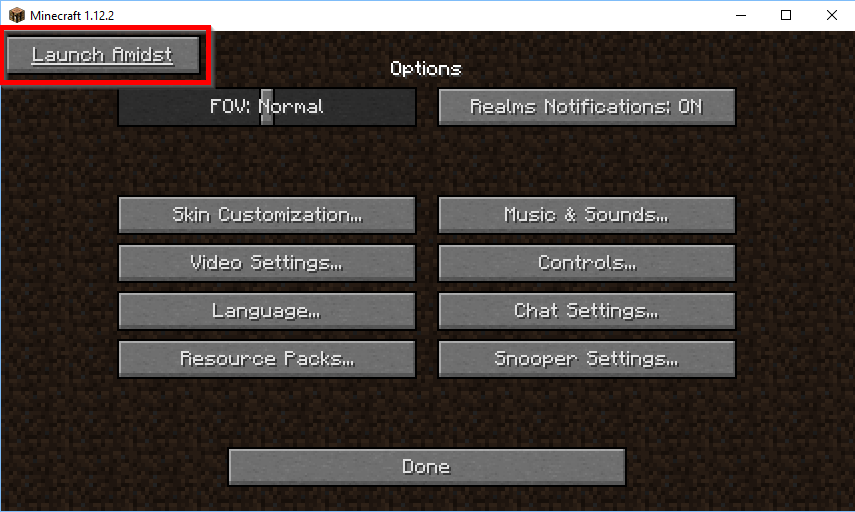
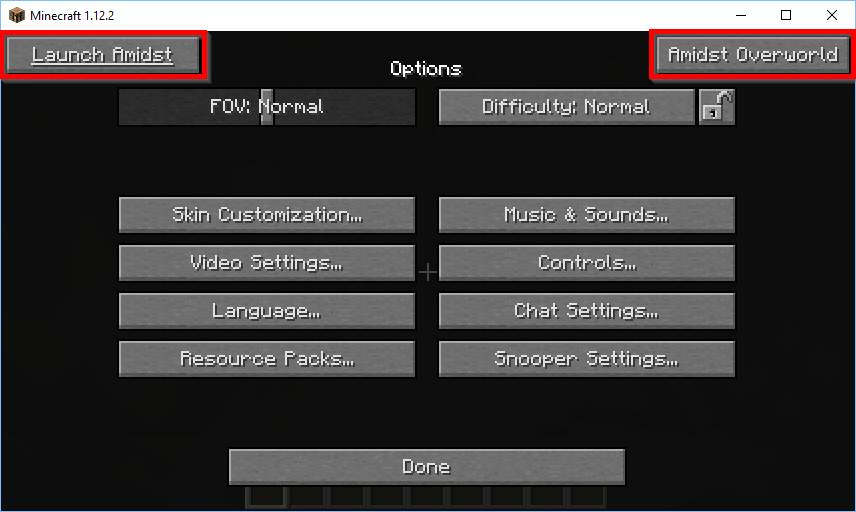
Add some basic support for mods that tie their generation to a dimension. See #3

diff --git a/src/main/java/net/lessqq/amidstforge/UIEventHandler.java b/src/main/java/net/lessqq/amidstforge/UIEventHandler.java
@@ -11,12 +11,17 @@ import amidst.AmidstSettings;
 import amidst.Application;
 import amidst.PerApplicationInjector;
 import amidst.ResourceLoader;
+import amidst.mojangapi.minecraftinterface.MinecraftInterface;
 import net.minecraft.client.gui.GuiButton;
 import net.minecraft.client.gui.GuiOptions;
 import net.minecraft.client.gui.GuiScreen;
 import net.minecraft.client.resources.I18n;
+import net.minecraft.world.WorldServer;
 import net.minecraftforge.client.event.GuiScreenEvent;
 import net.minecraftforge.client.event.GuiScreenEvent.InitGuiEvent;
+import net.minecraftforge.common.DimensionManager;
+import net.minecraftforge.event.world.WorldEvent.Load;
+import net.minecraftforge.event.world.WorldEvent.Unload;
 import net.minecraftforge.fml.common.Mod.EventBusSubscriber;
 import net.minecraftforge.fml.common.eventhandler.SubscribeEvent;
 
@@ -24,7 +29,9 @@ import net.minecraftforge.fml.common.eventhandler.SubscribeEvent;
 public class UIEventHandler {
 
   private GuiButton amidstButton;
+  private GuiButton overworldButton;
   private Application application;
+  private boolean serverRunning = false;
 
   @SubscribeEvent
   public void initGui(InitGuiEvent.Post evt) {
@@ -35,18 +42,42 @@ public class UIEventHandler {
         maxy = b.y > maxy ? b.y : maxy;
       }
       amidstButton = new GuiButton(Integer.MIN_VALUE, 2, 2, 98, 20, I18n.format("amidstforge.ui.button.label"));
+      overworldButton = new GuiButton(Integer.MIN_VALUE, gui.width - 100 , 2, 98, 20,
+          I18n.format("amidstforge.ui.overworldbutton.label"));
+      overworldButton.enabled = serverRunning;
       evt.getButtonList().add(amidstButton);
+      evt.getButtonList().add(overworldButton);
     }
+  }
+
+  @SubscribeEvent
+  public void onWorldLoad(Load evt) {
+    WorldServer overworld = DimensionManager.getWorld(0);
+    if (overworld != null && overworld == evt.getWorld())
+      serverRunning = true;
+    if (overworldButton != null)
+      overworldButton.enabled = serverRunning;
+  }
+
+  @SubscribeEvent
+  public void onWorldUnload(Unload evt) {
+    WorldServer overworld = DimensionManager.getWorld(0);
+    if (overworld == null || overworld == evt.getWorld())
+      serverRunning = false;
+    if (overworldButton != null)
+      overworldButton.enabled = serverRunning;
   }
 
   @SubscribeEvent
   public void postEvent(GuiScreenEvent.ActionPerformedEvent.Post evt) {
     if (evt.getGui() instanceof GuiOptions && evt.getButton() == amidstButton) {
-      startAmidst();
+      startAmidst(new IntegratedMinecraftInterface());
+    } else if (evt.getGui() instanceof GuiOptions && evt.getButton() == overworldButton) {
+      startAmidst(new OverworldMinecraftInterface());
     }
   }
 
-  public synchronized void startAmidst() {
+  public synchronized void startAmidst(MinecraftInterface minecraftInterface) {
     if (application != null) {
       Object mainWindow = getMainWindow(application);
       if (mainWindow != null)
@@ -56,7 +87,7 @@ public class UIEventHandler {
 
     SwingUtilities.invokeLater(() -> {
       try {
-        PerApplicationInjector injector = new PerApplicationInjector(new IntegratedMinecraftInstance(),
+        PerApplicationInjector injector = new PerApplicationInjector(minecraftInterface,
             AmidstMetaData.from(ResourceLoader.getProperties("/amidst/metadata.properties"),
                 ResourceLoader.getImage("/amidst/icon/amidst-16x16.png"),
                 ResourceLoader.getImage("/amidst/icon/amidst-32x32.png"),

diff --git a/src/main/java/net/lessqq/amidstforge/OverworldMinecraftInterface.java b/src/main/java/net/lessqq/amidstforge/OverworldMinecraftInterface.java
@@ -1,0 +1,50 @@
+package net.lessqq.amidstforge;
+
+import amidst.mojangapi.minecraftinterface.MinecraftInterface;
+import amidst.mojangapi.minecraftinterface.MinecraftInterfaceException;
+import amidst.mojangapi.minecraftinterface.RecognisedVersion;
+import amidst.mojangapi.world.WorldType;
+import net.minecraft.server.MinecraftServer;
+import net.minecraft.world.WorldServer;
+import net.minecraft.world.biome.BiomeProvider;
+import net.minecraft.world.gen.layer.GenLayer;
+import net.minecraft.world.gen.layer.IntCache;
+import net.minecraftforge.fml.common.FMLCommonHandler;
+
+public class OverworldMinecraftInterface implements MinecraftInterface {
+
+  private BiomeProvider biomeProvider;
+
+  @Override
+  public void createWorld(long seed, WorldType worldType, String generatorOptions) throws MinecraftInterfaceException {
+    MinecraftServer server = FMLCommonHandler.instance().getMinecraftServerInstance();
+    if (server != null) {
+      WorldServer world = server.getWorld(0);
+      if (world != null) {
+        biomeProvider = world.getBiomeProvider();
+      }
+    }
+  }
+
+  @Override
+  public int[] getBiomeData(int x, int y, int width, int height, boolean useQuarterResolution)
+      throws MinecraftInterfaceException {
+    IntCache.resetIntCache();
+    if (biomeProvider != null) {
+      GenLayer layer;
+      if (useQuarterResolution)
+        layer = biomeProvider.genBiomes;
+      else
+        layer = biomeProvider.biomeIndexLayer;
+      return layer.getInts(x, y, width, height).clone();
+    }
+    return new int[width*height];
+
+  }
+
+  @Override
+  public RecognisedVersion getRecognisedVersion() {
+    return RecognisedVersion.UNKNOWN;
+  }
+
+}

diff --git a/src/main/java/net/lessqq/amidstforge/IntegratedMinecraftInterface.java b/src/main/java/net/lessqq/amidstforge/IntegratedMinecraftInterface.java
@@ -11,7 +11,7 @@ import net.minecraft.world.gen.layer.GenLayer;
 import net.minecraft.world.gen.layer.IntCache;
 import net.minecraft.world.storage.WorldInfo;
 
-public class IntegratedMinecraftInstance implements MinecraftInterface {
+public class IntegratedMinecraftInterface implements MinecraftInterface {
 
   private BiomeProvider biomeProvider;
 

diff --git a/src/main/java/net/lessqq/amidstforge/AmidstRunCommand.java b/src/main/java/net/lessqq/amidstforge/AmidstRunCommand.java
@@ -25,7 +25,7 @@ public class AmidstRunCommand extends CommandBase {
 
   @Override
   public void execute(MinecraftServer server, ICommandSender sender, String[] args) throws CommandException {
-    eventHandler.startAmidst();
+    eventHandler.startAmidst(new IntegratedMinecraftInterface());
   }
 
 }

diff --git a/README.md b/README.md
@@ -9,16 +9,36 @@ Client-Side only mod that integrates all modded biomes into the [Amidst applicat
 How to use
 ----------
 
-This mod adds two ways of starting amidst: 
-* A button in the options menu 
-  ![picture showing the amidst button in the option menu](images/options.png)
+![picture showing the amidst button in the option menu](images/options.png)
+
+### Free seed selection
+
+This mod adds the following ways of starting amidst: 
+* the button "Launch Amidst" in the options menu 
 * the command `/amidst`
 
-Start Amidst using one of these methods.
+Start Amidst using one of these methods. Once started you can select a seed using the Amidst functions "New from seed" and "New from random seed"
 
-> Note: Some mods (e.g. Traverse) only add their biomes during server start. If you encounter differences between amidst output and the minecraft world try to start a single player world with corresponding settings first. This is especially relevant with mods that add versioned biomes.
+### Overworld seed & generation
+
+Some Mods (e.g. GeographiCraft) tie their world generation to a specific dimension. The button "Amidst Overworld" adds in rudimentary support for these mods. This button is enabled once you've created / joined a local singleplayer world.
+Once started use the function "New from seed" / "New from random seed" to open the map.
+> Note: the entered and displayed seed value is wrong and is ignored. The "Amidst Overworld" feature uses the seed of the currently running minecraft world.    
 
 Known issues
 ------------
 
-Some functions of the launched Amidst application such as "Switch profile" and "Open saved game" do not work and cause exceptions. For further issues please check the [issue tracker](../../issues)
+### Mod compatibility
+Some general points on Mod compatibility:
+ * Note: Some mods (e.g. Traverse) only add their biomes during server start. If you encounter differences between amidst output and the minecraft world try to start a single  player world with corresponding settings first. This is especially relevant with mods that add versioned biomes.
+ *  Due to the way Amidst works changes to the generations of structures and features will *not* be reflected correctly in the Amidst map.
+
+| Mod | Known issues |
+|-----|--------------|
+|[Traverse](https://minecraft.curseforge.com/projects/traverse)| Biomes are only added to generation once a world is loaded. Create a new world and use "Launch Amidst" after you joined the world |
+|[Climate Control/Geographicraft](https://minecraft.curseforge.com/projects/climate-control-geographicraft)| Geographicraft ties its generation to the worlds dimensions. Create a world with the desired seed, then use "Amidst Overworld" to explore that seed. Feature / Structure locations are not listed correctly on the map |
+
+
+### Miscellaneous
+
+Some functions of the launched Amidst application such as "Switch profile" and "Open saved game" may not work and cause exceptions. For further issues please check the [issue tracker](../../issues)
